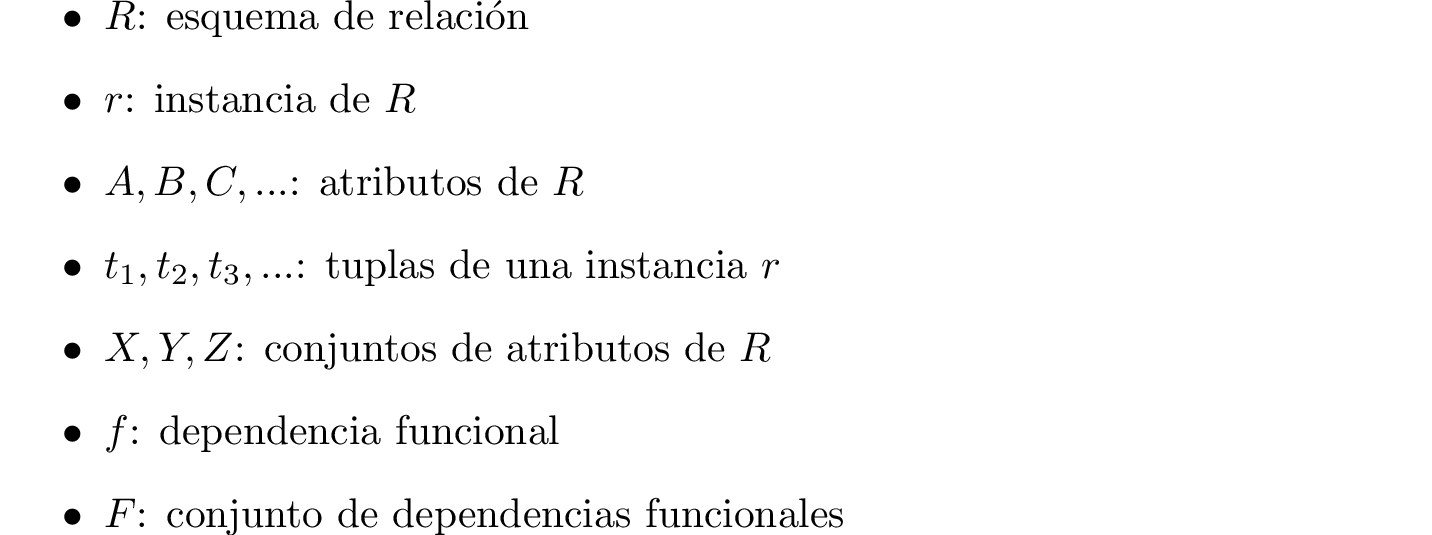
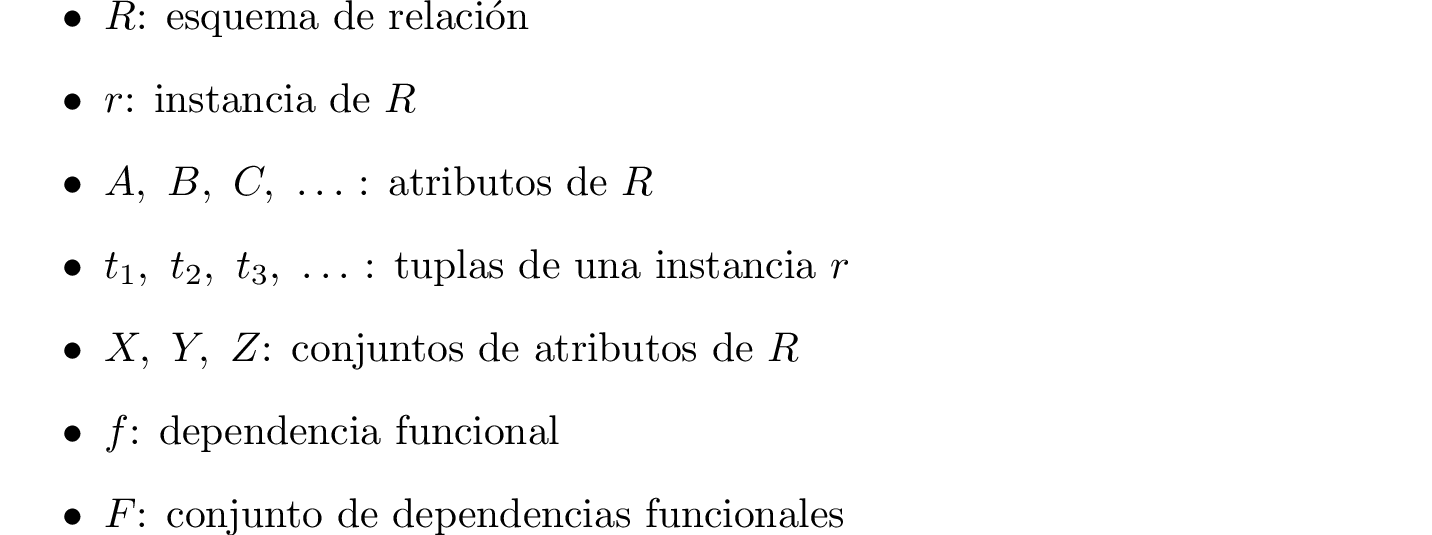
Fix dp tex

Changed region(s): [[0.0922, 0.5981, 0.5531, 0.6879], [0.0922, 0.4785, 0.5838, 0.5383], [0.0922, 0.2991, 0.4609, 0.3888]]

diff --git a/present/tex/df-notacion.tex b/present/tex/df-notacion.tex
@@ -1,12 +1,13 @@
+\pdfoutput=1
 \documentclass[preview]{standalone}
 
-\begin{document}
+\begin{document}\flushleft
 \begin{itemize}
-\item $R$: esquema de relaci\'on
+\item $R$: esquema de relación
 \item $r$: instancia de $R$
-\item $A, B, C, ...$: atributos de $R$
-\item $t_1, t_2, t_3, ...$: tuplas de una instancia $r$ 
-\item $X, Y, Z$: conjuntos de atributos de $R$
+\item $A,\ B,\ C,\ \ldots\ $: atributos de $R$
+\item $t_1,\ t_2,\ t_3,\ \ldots\ $: tuplas de una instancia $r$ 
+\item $X,\ Y,\ Z$: conjuntos de atributos de $R$
 \item $f$: dependencia funcional
 \item $F$: conjunto de dependencias funcionales
 \end{itemize}

diff --git a/present/tex/df-axiomas-armstrong.tex b/present/tex/df-axiomas-armstrong.tex
@@ -1,3 +1,4 @@
+\pdfoutput=1
 \documentclass[preview]{standalone}
 \usepackage{mathtools}
 

diff --git a/present/tex/df-clausura-df.tex b/present/tex/df-clausura-df.tex
@@ -1,3 +1,4 @@
+\pdfoutput=1
 \documentclass[preview]{standalone}
 
 \begin{document}
